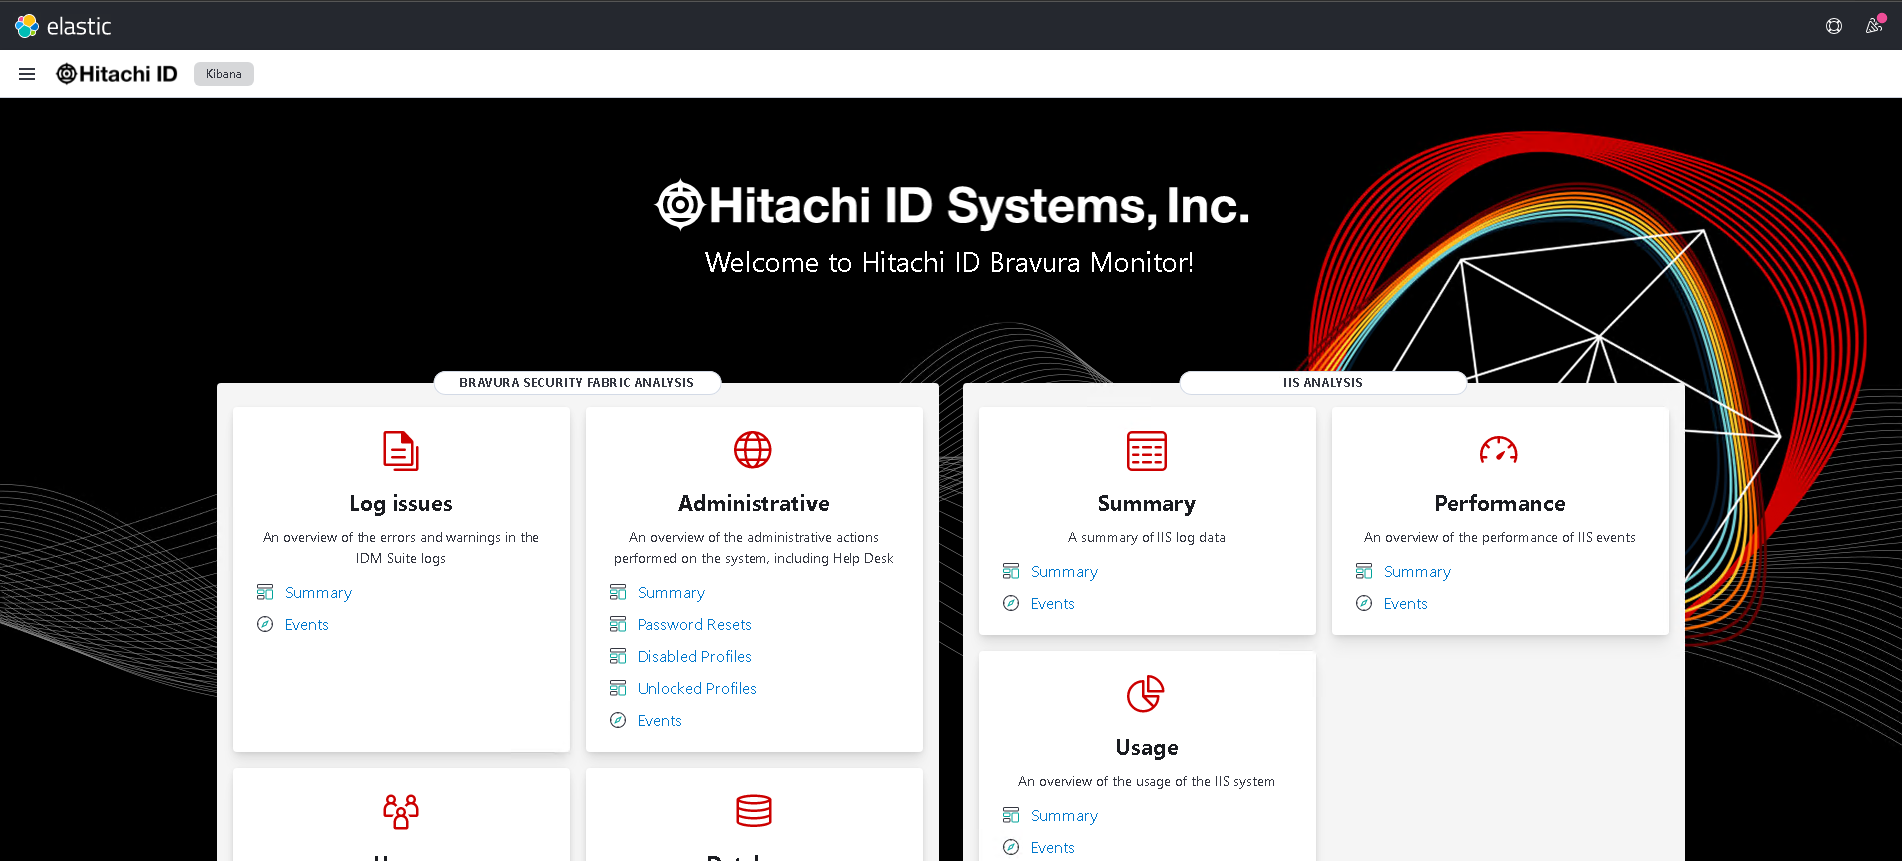
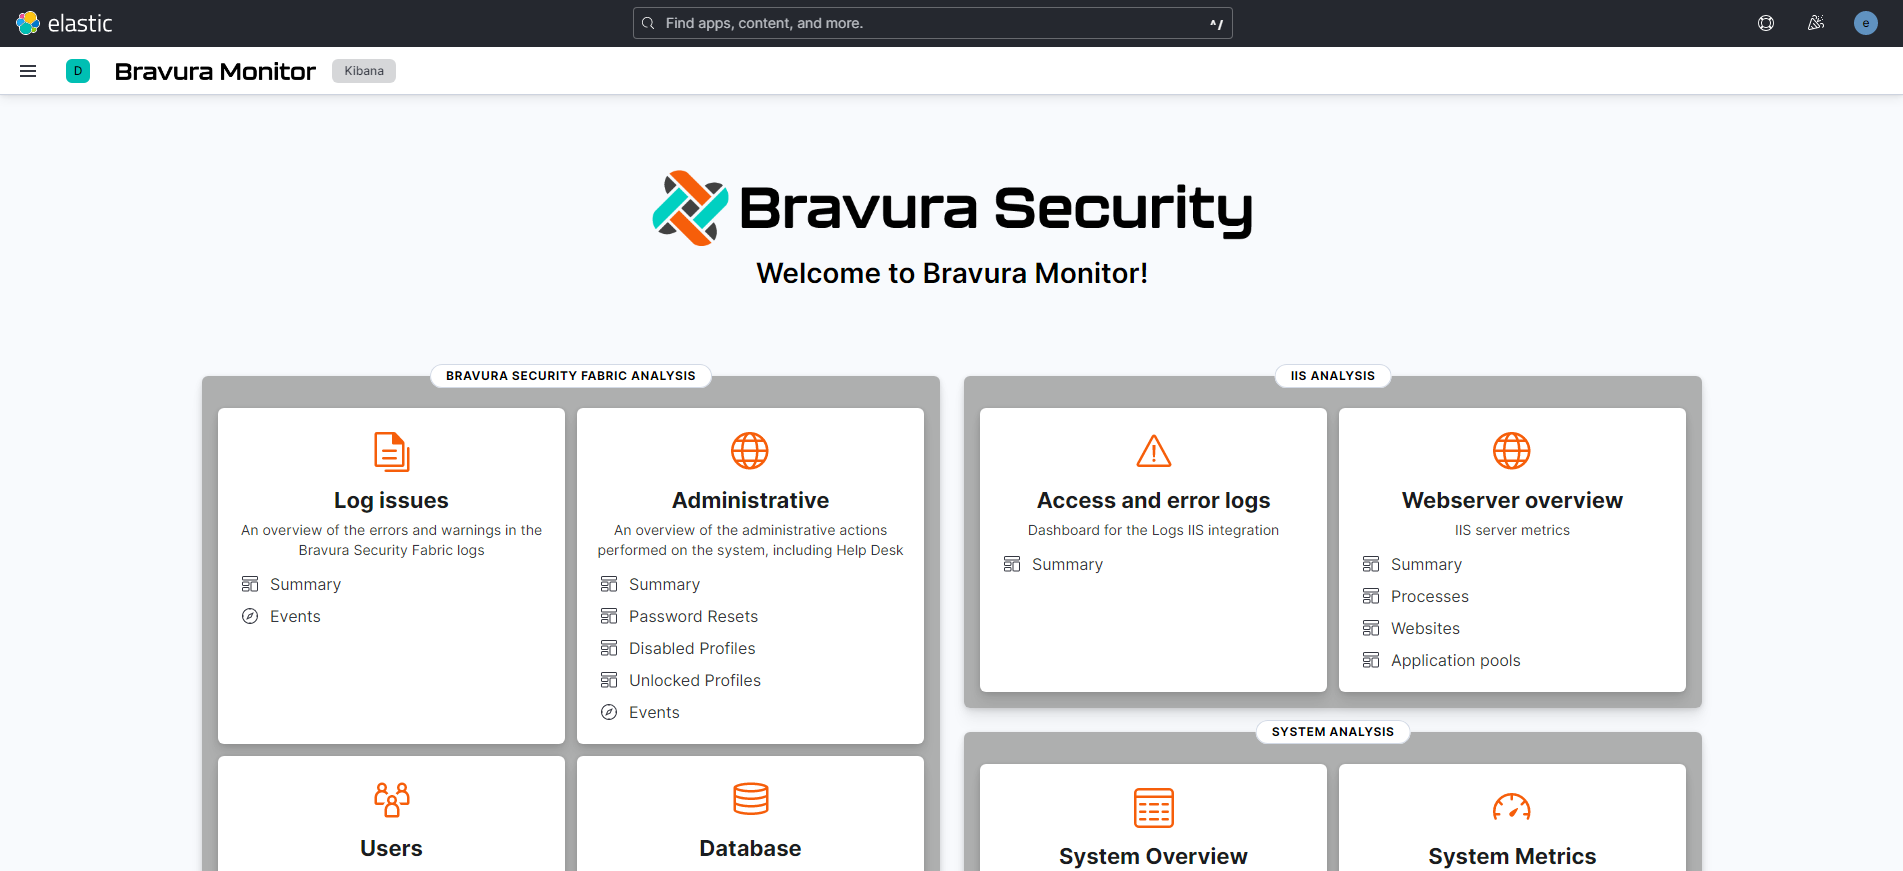
Rebrand to Bravura Security (formerly Hitachi ID) (#4987)

diff --git a/packages/hid_bravura_monitor/docs/README.md b/packages/hid_bravura_monitor/docs/README.md
@@ -1,6 +1,6 @@
-# Hitachi ID Bravura Monitor Integration
+# Bravura Monitor Integration
 
-The Hitachi ID Bravura Monitor integration fetches and parses logs from a [Bravura Security Fabric](https://docs.hitachi-id.net/#/index/10/11)  instance.
+The Bravura Monitor integration fetches and parses logs from a [Bravura Security Fabric](https://bravurasecuritydocs.com/#/index/10/11)  instance.
 
 When you run the integration, it performs the following tasks automatically:
 
@@ -16,7 +16,7 @@ for visualizing in Kibana
 
 ## Compatibility
 
-The Hitachi ID Bravura Monitor integration was tested with logs from `Bravura Security Fabric 12.3.0` running on Windows Server 2016.
+The Bravura Monitor integration was tested with logs from `Bravura Security Fabric 12.3.0` running on Windows Server 2016.
 
 The integration was also tested with Bravura Security Fabric/IDM Suite 11.x, 12.x series.
 
@@ -44,7 +44,7 @@ However it can be configured for any file path. See the following example.
           dataset: hid_bravura_monitor.log
           type: logs
         paths:
-          - 'C:/Program Files/Hitachi ID/IDM Suite/Logs/default*/idmsuite*.log'
+          - 'C:/Program Files/Bravura Security/Bravura Security Fabric/Logs/default*/idmsuite*.log'
         prospector.scanner.exclude_files:
           - .gz$
         line_terminator: carriage_return_line_feed
@@ -147,7 +147,7 @@ empty, the integration will choose log paths based on your operating system.
 
 ### log
 
-The `log` dataset collects the Hitachi ID Bravura Security Fabric application logs.
+The `log` dataset collects the Bravura Security Fabric application logs.
 
 An example event for `log` looks as following:
 
@@ -431,7 +431,7 @@ An example event for `log` looks as following:
 
 ### winlog
 
-The `winglog` dataset collects the Hitachi ID Bravura Security Fabric event logs.
+The `winlog` dataset collects the Bravura Security Fabric event logs.
 
 An example event for `winlog` looks as following:
 
@@ -478,7 +478,7 @@ An example event for `winlog` looks as following:
             "Instance": "pmim"
         },
         "event_id": 92,
-        "computer_name": "hitachi1.corp",
+        "computer_name": "bravurasecurity1.corp",
         "provider_name": "Hitachi-Hitachi ID Systems-Hitachi ID Suite",
         "task": "",
         "process": {
@@ -495,7 +495,7 @@ An example event for `winlog` looks as following:
         "created": "2021-10-29T14:05:52.111Z"
     },
     "host": {
-        "name": "hitachi1.corp",
+        "name": "bravurasecurity1.corp",
         "architecture": "x86_64",
         "os": {
             "family": "windows",

diff --git a/packages/hid_bravura_monitor/_dev/build/docs/README.md b/packages/hid_bravura_monitor/_dev/build/docs/README.md
@@ -1,6 +1,6 @@
-# Hitachi ID Bravura Monitor Integration
+# Bravura Monitor Integration
 
-The Hitachi ID Bravura Monitor integration fetches and parses logs from a [Bravura Security Fabric](https://docs.hitachi-id.net/#/index/10/11)  instance.
+The Bravura Monitor integration fetches and parses logs from a [Bravura Security Fabric](https://bravurasecuritydocs.com/#/index/10/11)  instance.
 
 When you run the integration, it performs the following tasks automatically:
 
@@ -16,7 +16,7 @@ for visualizing in Kibana
 
 ## Compatibility
 
-The Hitachi ID Bravura Monitor integration was tested with logs from `Bravura Security Fabric 12.3.0` running on Windows Server 2016.
+The Bravura Monitor integration was tested with logs from `Bravura Security Fabric 12.3.0` running on Windows Server 2016.
 
 The integration was also tested with Bravura Security Fabric/IDM Suite 11.x, 12.x series.
 
@@ -44,7 +44,7 @@ However it can be configured for any file path. See the following example.
           dataset: hid_bravura_monitor.log
           type: logs
         paths:
-          - 'C:/Program Files/Hitachi ID/IDM Suite/Logs/default*/idmsuite*.log'
+          - 'C:/Program Files/Bravura Security/Bravura Security Fabric/Logs/default*/idmsuite*.log'
         prospector.scanner.exclude_files:
           - .gz$
         line_terminator: carriage_return_line_feed
@@ -147,7 +147,7 @@ empty, the integration will choose log paths based on your operating system.
 
 ### log
 
-The `log` dataset collects the Hitachi ID Bravura Security Fabric application logs.
+The `log` dataset collects the Bravura Security Fabric application logs.
 
 {{event "log"}}
 
@@ -155,7 +155,7 @@ The `log` dataset collects the Hitachi ID Bravura Security Fabric application lo
 
 ### winlog
 
-The `winglog` dataset collects the Hitachi ID Bravura Security Fabric event logs.
+The `winlog` dataset collects the Bravura Security Fabric event logs.
 
 {{event "winlog"}}
 
